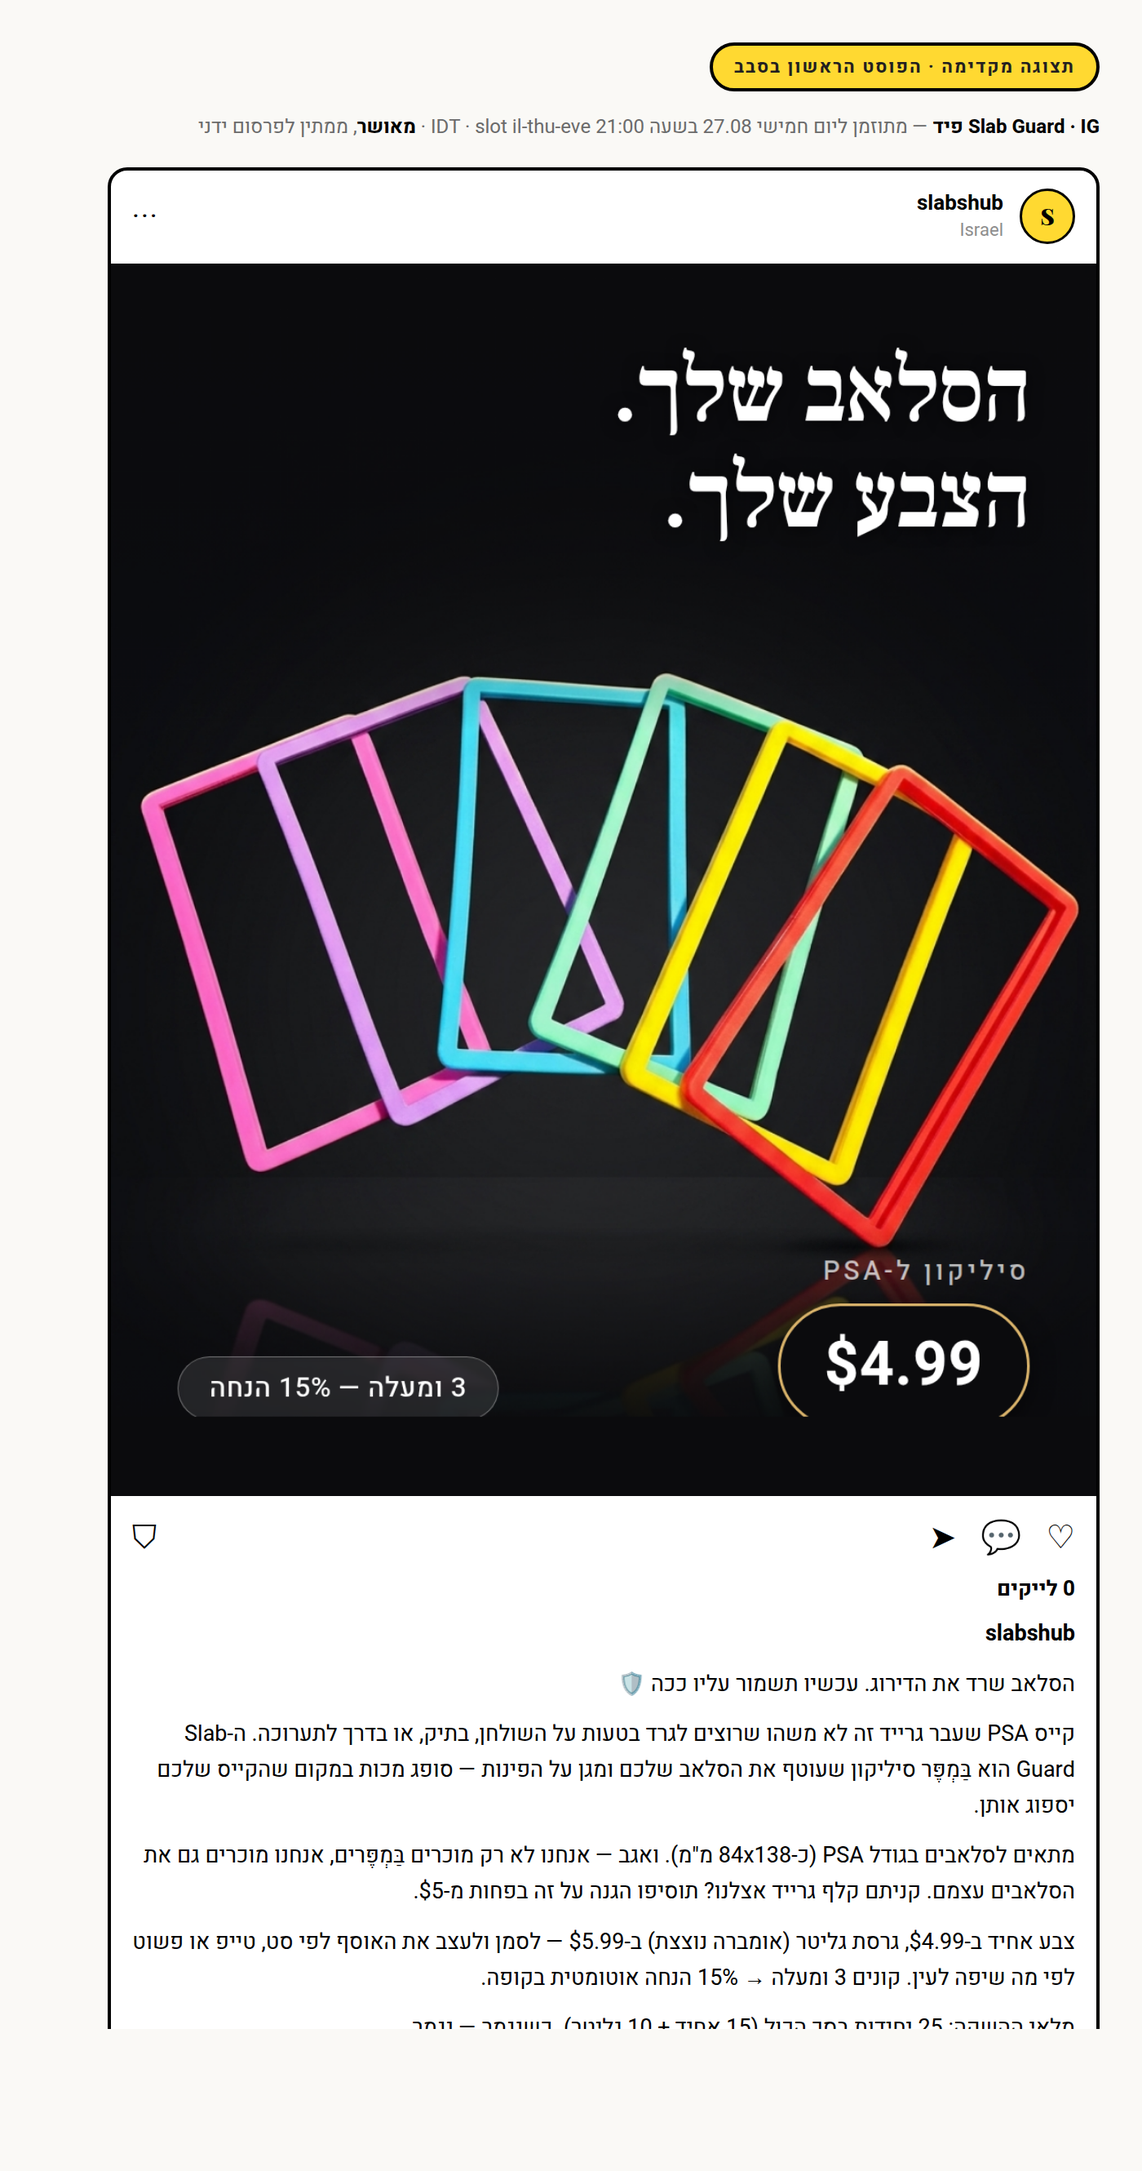
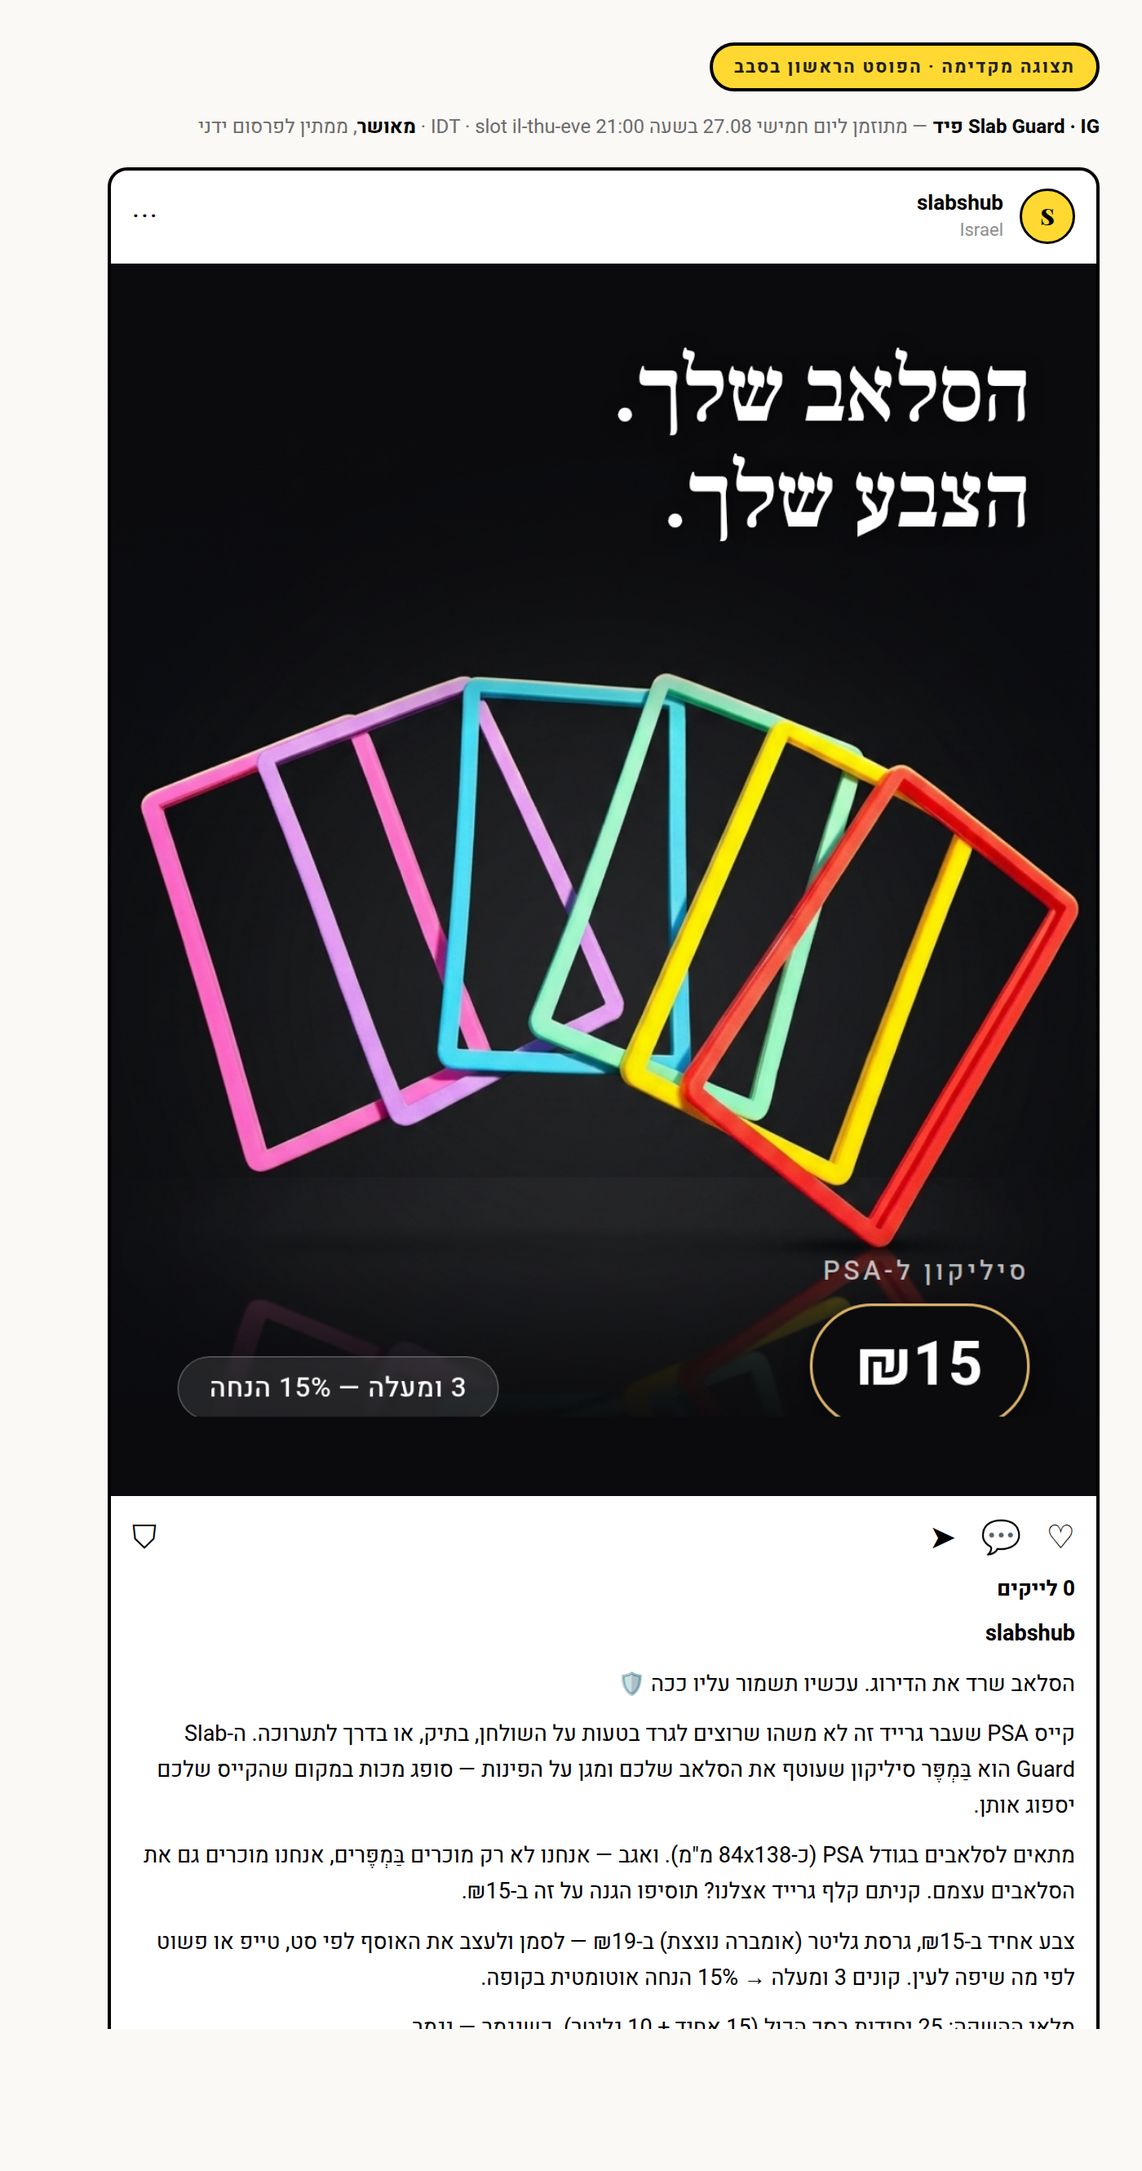
Store switched to ILS: repriced all 68 variants, shipping and wave-1 copy
Currency flipped by Matan at rate 3.0. Applied the staged plan — every variant
now sits on a clean shekel price point, shipping reads 29/59/69/89, and the
Slab Guard and Eevee drafts plus the IG hero quote shekels. Verified live
through the storefront cart: Eevee 79 ILS, shipping 29 IL / 59 EU / 69 NA / 89 APAC.

Weeks 2-4 campaign copy still quotes USD and is due before 04.09.

Claude-Session: https://claude.ai/code/session_0161EBWkBzQ1si38kLj4LzEw

Changed region(s): [[0.1229, 0.8425, 0.5836, 0.9049], [0.6757, 0.5929, 0.86, 0.6553], [0.6143, 0.8737, 0.8293, 0.9049]]

diff --git a/scripts/slab_guard_hero.py b/scripts/slab_guard_hero.py
@@ -1,7 +1,7 @@
 """Bakes the IG-feed overlay onto promo-main.png and exports at 1080x1350.
 
 Follows assets/2026-08-04-slab-guard-launch/image-spec.md sec. "IG feed",
-with the price badge corrected to the live store price ($4.99, verified
+with the price badge set to the live store price (₪15, verified
 2026-08-26). Renders through Chromium so the brand fonts are used directly.
 """
 import base64, pathlib, subprocess
@@ -61,6 +61,6 @@ html,body{{width:{w}px;height:{h}px;overflow:hidden;background:{INK}}}
 
 
 if __name__ == "__main__":
-    build(CAMP / "ig-feed-1080x1350.png", 1080, 1350, "הסלאב שלך.<br>הצבע שלך.", "$4.99")
+    build(CAMP / "ig-feed-1080x1350.png", 1080, 1350, "הסלאב שלך.<br>הצבע שלך.", "₪15")
     # FB organic runs the same hero clean — image-spec.md defines no overlay for it
     build(CAMP / "fb-organic-1080x1350-clean.png", 1080, 1350)

diff --git a/drafts/2026-08-04-slab-guard-launch-instagram-feed.md b/drafts/2026-08-04-slab-guard-launch-instagram-feed.md
@@ -9,12 +9,11 @@
 
 קייס PSA שעבר גרייד זה לא משהו שרוצים לגרד בטעות על השולחן, בתיק, או בדרך לתערוכה. ה-Slab Guard הוא בַּמְפֶּר סיליקון שעוטף את הסלאב שלכם ומגן על הפינות — סופג מכות במקום שהקייס שלכם יספוג אותן.
 
-מתאים לסלאבים בגודל PSA (כ-84x138 מ"מ). ואגב — אנחנו לא רק מוכרים בַּמְפֶּרים, אנחנו מוכרים גם את הסלאבים עצמם. קניתם קלף גרייד אצלנו? תוסיפו הגנה על זה בפחות מ-$5.
+מתאים לסלאבים בגודל PSA (כ-84x138 מ"מ). ואגב — אנחנו לא רק מוכרים בַּמְפֶּרים, אנחנו מוכרים גם את הסלאבים עצמם. קניתם קלף גרייד אצלנו? תוסיפו הגנה על זה ב-₪15.
 
-צבע אחיד ב-$4.99, גרסת גליטר (אומברה נוצצת) ב-$5.99 — לסמן ולעצב את האוסף לפי סט, טייפ או פשוט לפי מה שיפה לעין. קונים 3 ומעלה → 15% הנחה אוטומטית בקופה.
+צבע אחיד ב-₪15, גרסת גליטר (אומברה נוצצת) ב-₪19 — לסמן ולעצב את האוסף לפי סט, טייפ או פשוט לפי מה שיפה לעין. קונים 3 ומעלה → 15% הנחה אוטומטית בקופה.
 
 מלאי ההשקה: 25 יחידות בסך הכול (15 אחיד + 10 גליטר). כשנגמר — נגמר.
-המחירים בחנות בדולר (USD) — זה המחיר שהקופה גובה.
 
 לינק בביו → Slab Guard 🔗
 
@@ -22,7 +21,7 @@
 
 ## Asset
 `assets/2026-08-04-slab-guard-launch/ig-feed-1080x1350.png` — **final export, ready to post.**
-1080x1350 (4:5), overlay burned in per image-spec.md sec. "IG feed": headline "הסלאב שלך. הצבע שלך." top-right RTL, gold price pill bottom-right reading **$4.99** (live store price, verified 26.08), micro-badge "3 ומעלה — 15% הנחה" bottom-left. Rendered from promo-main.png with the brand type stack (Frank Ruhl Libre / Heebo) — no frame cropped at either edge.
+1080x1350 (4:5), overlay burned in per image-spec.md sec. "IG feed": headline "הסלאב שלך. הצבע שלך." top-right RTL, gold price pill bottom-right reading **₪15** (live store price, verified 26.08), micro-badge "3 ומעלה — 15% הנחה" bottom-left. Rendered from promo-main.png with the brand type stack (Frank Ruhl Libre / Heebo) — no frame cropped at either edge.
 
 ## Link
 https://slabshub.com/products/slab-guard-silicone-bumper-for-psa-graded-slabs?utm_source=instagram&utm_medium=organic&utm_campaign=2026-08-04-slab-guard-launch
@@ -30,9 +29,9 @@ https://slabshub.com/products/slab-guard-silicone-bumper-for-psa-graded-slabs?ut
 ## Checklist
 - [x] Copy matches platform limits — caption ~950 chars incl. line breaks, 15 hashtags; well under IG's 2,200-char cap.
 - [x] UTM parameters present and correct — utm_source=instagram, utm_medium=organic, utm_campaign=2026-08-04-slab-guard-launch (exact match to campaign id and draft filename).
-- [x] No unverified price/scarcity claims — $4.99/$5.99 (verified live in Shopify 26.08), 3+/15% promo, and 25-unit (15+10) inventory all match brief UPDATE 2 exactly; no CGC/BGS fit claims, PSA-only.
+- [x] No unverified price/scarcity claims — ₪15/₪19 (verified live in Shopify 26.08, after the ILS switch), 3+/15% promo, and 25-unit (15+10) inventory all match brief UPDATE 2 exactly; no CGC/BGS fit claims, PSA-only.
 - [x] Asset format matches placement dimensions — final export is 1080x1350 with the overlay burned in; nothing left to do before posting.
 
 ## Verification notes
 - Final asset exported 26.08.2026 at 1080x1350 with overlay burned in — verified visually.
-- Price on the visual and in the caption both read $4.99, matching Shopify variant SG-SOLID.
+- Price on the visual and in the caption both read ₪15, matching Shopify variant SG-SOLID after the ILS switch.

diff --git a/drafts/2026-08-04-slab-guard-launch-facebook-organic.md b/drafts/2026-08-04-slab-guard-launch-facebook-organic.md
@@ -7,13 +7,12 @@
 
 קלף שעבר דירוג ויצא סלאב — עבר כבר את כל הדרך. בדיקת מצב, שליחה, המתנה, ולבסוף התווית עם הציון. אחרי כל זה, הדבר האחרון שרוצים זה פינה שרוטה מנפילה על הרצפה או שריטה בתיק לצד המפתחות.
 
-בגלל זה בנינו את Slab Guard — בַּמְפֶּר סיליקון שעוטף את הסלאב ומגן על הפינות והקצוות, מתאים למארז PSA (בערך 84x138 מ"מ). זה לא רק אביזר צדדי — זה ההמשך הטבעי לקנייה עצמה. קניתם סלאב אצלנו? תוסיפו לו שכבת הגנה בפחות מ-$5, ותשמרו על הערך שכבר שילמתם עליו.
+בגלל זה בנינו את Slab Guard — בַּמְפֶּר סיליקון שעוטף את הסלאב ומגן על הפינות והקצוות, מתאים למארז PSA (בערך 84x138 מ"מ). זה לא רק אביזר צדדי — זה ההמשך הטבעי לקנייה עצמה. קניתם סלאב אצלנו? תוסיפו לו שכבת הגנה ב-₪15, ותשמרו על הערך שכבר שילמתם עליו.
 
-מעבר להגנה — זה גם דרך לעצב את האוסף. צבע אחיד ב-$4.99 לכל אחד מהגוונים, וגרסת גליטר/אומברה נוצצת ב-$5.99 לתחושה יותר פרימיום על המדף. אפשר לצבוע קוד לפי סט, לפי דמות, או סתם כי זה נראה טוב.
+מעבר להגנה — זה גם דרך לעצב את האוסף. צבע אחיד ב-₪15 לכל אחד מהגוונים, וגרסת גליטר/אומברה נוצצת ב-₪19 לתחושה יותר פרימיום על המדף. אפשר לצבוע קוד לפי סט, לפי דמות, או סתם כי זה נראה טוב.
 
 השקה ראשונה: 25 יחידות בסך הכול (15 אחיד, 10 גליטר) — כשנגמר, נגמר, בלי חידוש מיידי. קונים 3 יחידות ומעלה? 15% הנחה אוטומטית בקופה, בלי קוד קופון.
 
-המחירים בחנות בדולר (USD) — זה המחיר שהקופה גובה.
 
 לינק בתגובה הראשונה 👇
 
@@ -28,7 +27,7 @@ https://slabshub.com/products/slab-guard-silicone-bumper-for-psa-graded-slabs?ut
 ## Checklist
 - [x] Copy matches platform limits — FB organic has no hard character cap (that constraint applies to FB ad headlines, which are skipped here); caption length is normal for FB storytelling posts.
 - [x] UTM parameters present and correct — utm_source=facebook, utm_medium=organic, utm_campaign=2026-08-04-slab-guard-launch (exact match).
-- [x] No unverified price/scarcity claims — $4.99/$5.99 (verified live in Shopify 26.08), 3+/15% promo, 25-unit (15+10) inventory match brief UPDATE 2 exactly; PSA-only fit claim, no CGC/BGS.
+- [x] No unverified price/scarcity claims — ₪15/₪19 (verified live in Shopify 26.08, after the ILS switch), 3+/15% promo, 25-unit (15+10) inventory match brief UPDATE 2 exactly; PSA-only fit claim, no CGC/BGS.
 - [x] Asset format matches placement dimensions — 928x1152 (4:5) is an accepted FB organic image ratio; upscale to 1080x1350 before export for consistency with the feed asset.
 
 ## Verification notes

diff --git a/drafts/2026-08-05-eevee-jungle-cgc7-instagram-feed.md b/drafts/2026-08-05-eevee-jungle-cgc7-instagram-feed.md
@@ -9,7 +9,7 @@ Before Espeon, before Umbreon, before any of them — there was just Eevee. 🧡
 
 This is a 1999 1st Edition from Pokemon Jungle, the set that started the whole Eeveelution obsession. CGC 7 (Near Mint), professionally slabbed, and yes — the back is exactly as clean as the front (check our other angle).
 
-$24.99 gets you a real graded 1st Edition slab from the WOTC era. We only have exactly one of these in stock — once it's gone, we're not restocking this exact card.
+₪79 gets you a real graded 1st Edition slab from the WOTC era. We only have exactly one of these in stock — once it's gone, we're not restocking this exact card.
 
 For anyone building a vintage run or just chasing the card that made this whole side of the hobby possible.
 
@@ -19,7 +19,7 @@ Tap the link in bio.
 
 ## Asset
 
-`C:\Users\matan\Desktop\Slabshub Agency\assets\2026-08-05-eevee-jungle-cgc7\promo-feed-1080x1350.png` — 1080x1350 (4:5, IG feed). No text baked in — add overlay in posting tool: top safe zone **"1999. 1st Edition. The OG Eevee."**, gold-edged price pill bottom-right **$24.99**, small tag bottom-left **"CGC 7 · 1 IN STOCK"** (per image-spec.md).
+`C:\Users\matan\Desktop\Slabshub Agency\assets\2026-08-05-eevee-jungle-cgc7\promo-feed-1080x1350.png` — 1080x1350 (4:5, IG feed). No text baked in — add overlay in posting tool: top safe zone **"1999. 1st Edition. The OG Eevee."**, gold-edged price pill bottom-right **₪79**, small tag bottom-left **"CGC 7 · 1 IN STOCK"** (per image-spec.md).
 
 ## Link
 
@@ -28,5 +28,5 @@ https://slabshub.com/products/eevee-1st-edition-51-pokemon-jungle-graded-7-cgc?u
 ## Checklist
 - [x] Copy matches platform limits — caption 759 chars (limit 2,200); 14 hashtags (bank recommends 12-15, IG limit 30)
 - [x] UTM parameters present and correct — utm_campaign matches campaign id/filename/copy exactly; URL parses
-- [x] No unverified price/scarcity claims — $24.99 = confirmed store price; "exactly one in stock" = literal inventory (brief: inventory 1); no dollar-gap/market comp claim (brief flags comps unverified)
+- [x] No unverified price/scarcity claims — ₪79 = confirmed store price; "exactly one in stock" = literal inventory (brief: inventory 1); no dollar-gap/market comp claim (brief flags comps unverified)
 - [x] Asset format matches placement dimensions — promo-feed-1080x1350.png measured 1080x1350, exact 4:5

diff --git a/drafts/2026-08-05-eevee-jungle-cgc7-facebook-organic.md b/drafts/2026-08-05-eevee-jungle-cgc7-facebook-organic.md
@@ -9,7 +9,7 @@ Before Sylveon, before Glaceon, before any Eeveelution existed — there was Pok
 
 This copy is CGC graded 7 (Near Mint) — professionally slabbed and protected, not a raw card you're trusting to a top-loader. It's from the WOTC era, when "1st Edition" actually meant something on the print run, not just a stamp.
 
-We have exactly one of these in stock at $24.99. No restock planned once it sells — this is the one copy we've got.
+We have exactly one of these in stock at ₪79. No restock planned once it sells — this is the one copy we've got.
 
 If you're building out a vintage collection or just want the card that started the Eeveelution craze sitting in your binder (or slab case), this is about as accessible an entry point into 1999 Jungle as you'll find.
 
@@ -17,7 +17,7 @@ Link in the comments. 🐾
 
 ## Asset
 
-`C:\Users\matan\Desktop\Slabshub Agency\assets\2026-08-05-eevee-jungle-cgc7\promo-feed-1080x1350.png` — 1080x1350 (4:5), reused as FB feed hero. No text baked in — add overlay in posting tool: top safe zone **"1999. 1st Edition. The OG Eevee."**, price pill **$24.99**, tag **"CGC 7 · 1 IN STOCK"** (per image-spec.md).
+`C:\Users\matan\Desktop\Slabshub Agency\assets\2026-08-05-eevee-jungle-cgc7\promo-feed-1080x1350.png` — 1080x1350 (4:5), reused as FB feed hero. No text baked in — add overlay in posting tool: top safe zone **"1999. 1st Edition. The OG Eevee."**, price pill **₪79**, tag **"CGC 7 · 1 IN STOCK"** (per image-spec.md).
 
 ## Link
 
@@ -26,5 +26,5 @@ https://slabshub.com/products/eevee-1st-edition-51-pokemon-jungle-graded-7-cgc?u
 ## Checklist
 - [x] Copy matches platform limits — caption 832 chars, within FB organic norms (no headline-length rule applies; organic, not ad)
 - [x] UTM parameters present and correct — utm_source=facebook, utm_medium=organic, campaign matches exactly; URL parses
-- [x] No unverified price/scarcity claims — $24.99 confirmed store price; "exactly one... in stock" literal (brief: inventory 1); no dollar-gap/market comp claim (brief flags comps unverified)
+- [x] No unverified price/scarcity claims — ₪79 confirmed store price; "exactly one... in stock" literal (brief: inventory 1); no dollar-gap/market comp claim (brief flags comps unverified)
 - [x] Asset format matches placement dimensions — promo-feed-1080x1350.png measured 1080x1350, valid FB feed image

diff --git a/drafts/2026-08-04-slab-guard-launch-instagram-story.md b/drafts/2026-08-04-slab-guard-launch-instagram-story.md
@@ -9,7 +9,7 @@
 "הסלאב שרד את הדירוג. עכשיו תגנו עליו 🛡"
 
 **פריים 2 (פרטים):**
-"מתאים ל-PSA | $4.99-5.99 | 3+ = 15% הנחה אוטומטית"
+"מתאים ל-PSA | ₪15-19 | 3+ = 15% הנחה אוטומטית"
 
 **פריים 3 (CTA):**
 "לינק בסטורי → Slab Guard, 25 יחידות בלבד"
@@ -23,7 +23,7 @@ https://slabshub.com/products/slab-guard-silicone-bumper-for-psa-graded-slabs?ut
 ## Checklist
 - [x] Copy matches platform limits — each of the 3 frame lines under 12 words, well within story-overlay readability norms.
 - [x] UTM parameters present and correct — utm_source=instagram, utm_medium=story, utm_campaign=2026-08-04-slab-guard-launch (exact match).
-- [x] No unverified price/scarcity claims — $4.99-5.99 range (verified live in Shopify 26.08) and "3+ = 15% הנחה" match brief UPDATE 2; "25 יחידות בלבד" matches confirmed total inventory (15 solid + 10 glitter); PSA-only, no CGC/BGS claim.
+- [x] No unverified price/scarcity claims — ₪15-19 range (verified live in Shopify 26.08, after the ILS switch) and "3+ = 15% הנחה" match brief UPDATE 2; "25 יחידות בלבד" matches confirmed total inventory (15 solid + 10 glitter); PSA-only, no CGC/BGS claim.
 - [x] Asset format matches placement dimensions — 9:16 vertical footage, native fit for IG story canvas (1080x1920), per orchestrator-supplied spec (8s, ready, no reprocessing needed).
 
 ## Verification notes

diff --git a/drafts/2026-08-05-eevee-jungle-cgc7-instagram-story.md b/drafts/2026-08-05-eevee-jungle-cgc7-instagram-story.md
@@ -9,7 +9,7 @@
 
 **Frame 2 (detail):** CGC 7, Near Mint. Jungle set. Only 1 in stock.
 
-**Frame 3 (CTA):** $24.99 — swipe up to see the card →
+**Frame 3 (CTA):** ₪79 — swipe up to see the card →
 
 ## Asset
 
@@ -22,7 +22,7 @@ https://slabshub.com/products/eevee-1st-edition-51-pokemon-jungle-graded-7-cgc?u
 ## Checklist
 - [x] Copy matches platform limits — 3 frames, 6/10/9 words respectively, well under story-frame norms
 - [x] UTM parameters present and correct — utm_medium=story, campaign matches exactly; URL parses
-- [x] No unverified price/scarcity claims — $24.99 confirmed store price; "only 1 in stock" = literal inventory
+- [x] No unverified price/scarcity claims — ₪79 confirmed store price; "only 1 in stock" = literal inventory
 - [x] Asset format matches placement dimensions — promo-story-1080x1920.png measured 1080x1920, exact 9:16
 
 ## Verification notes
